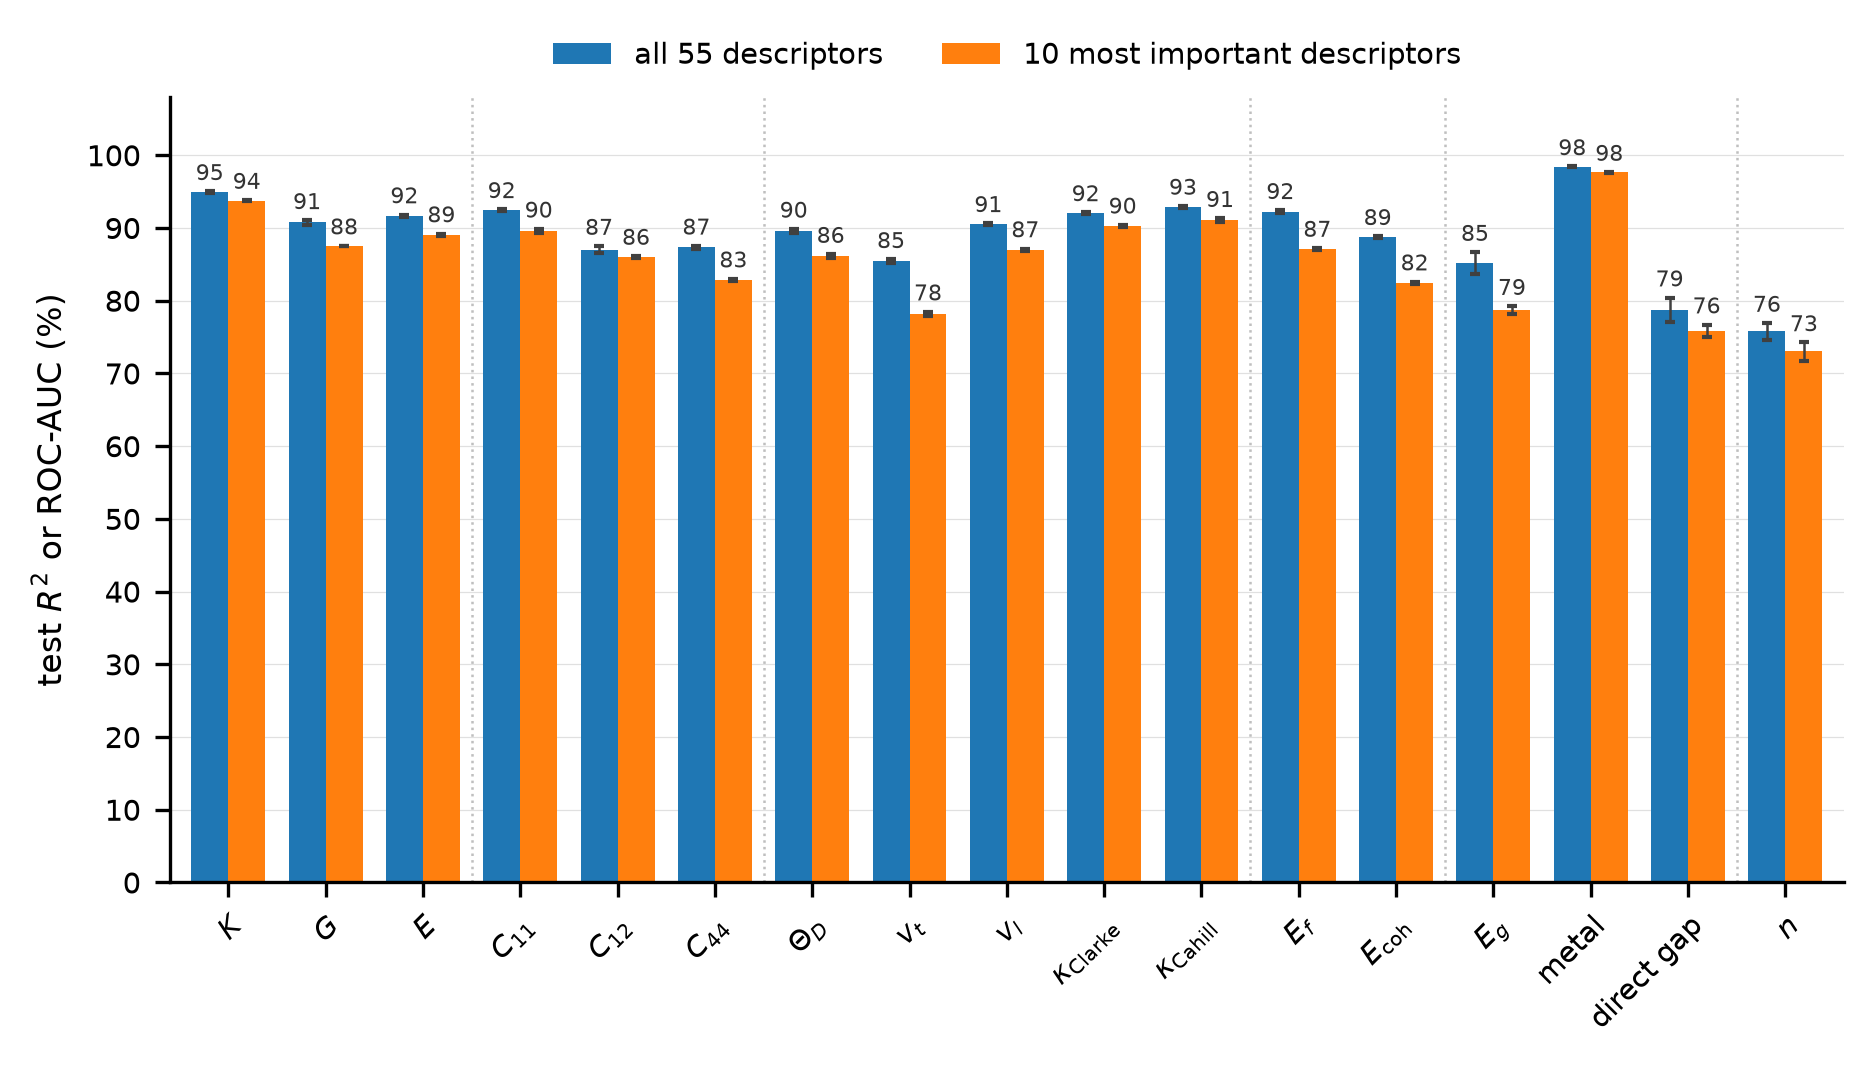
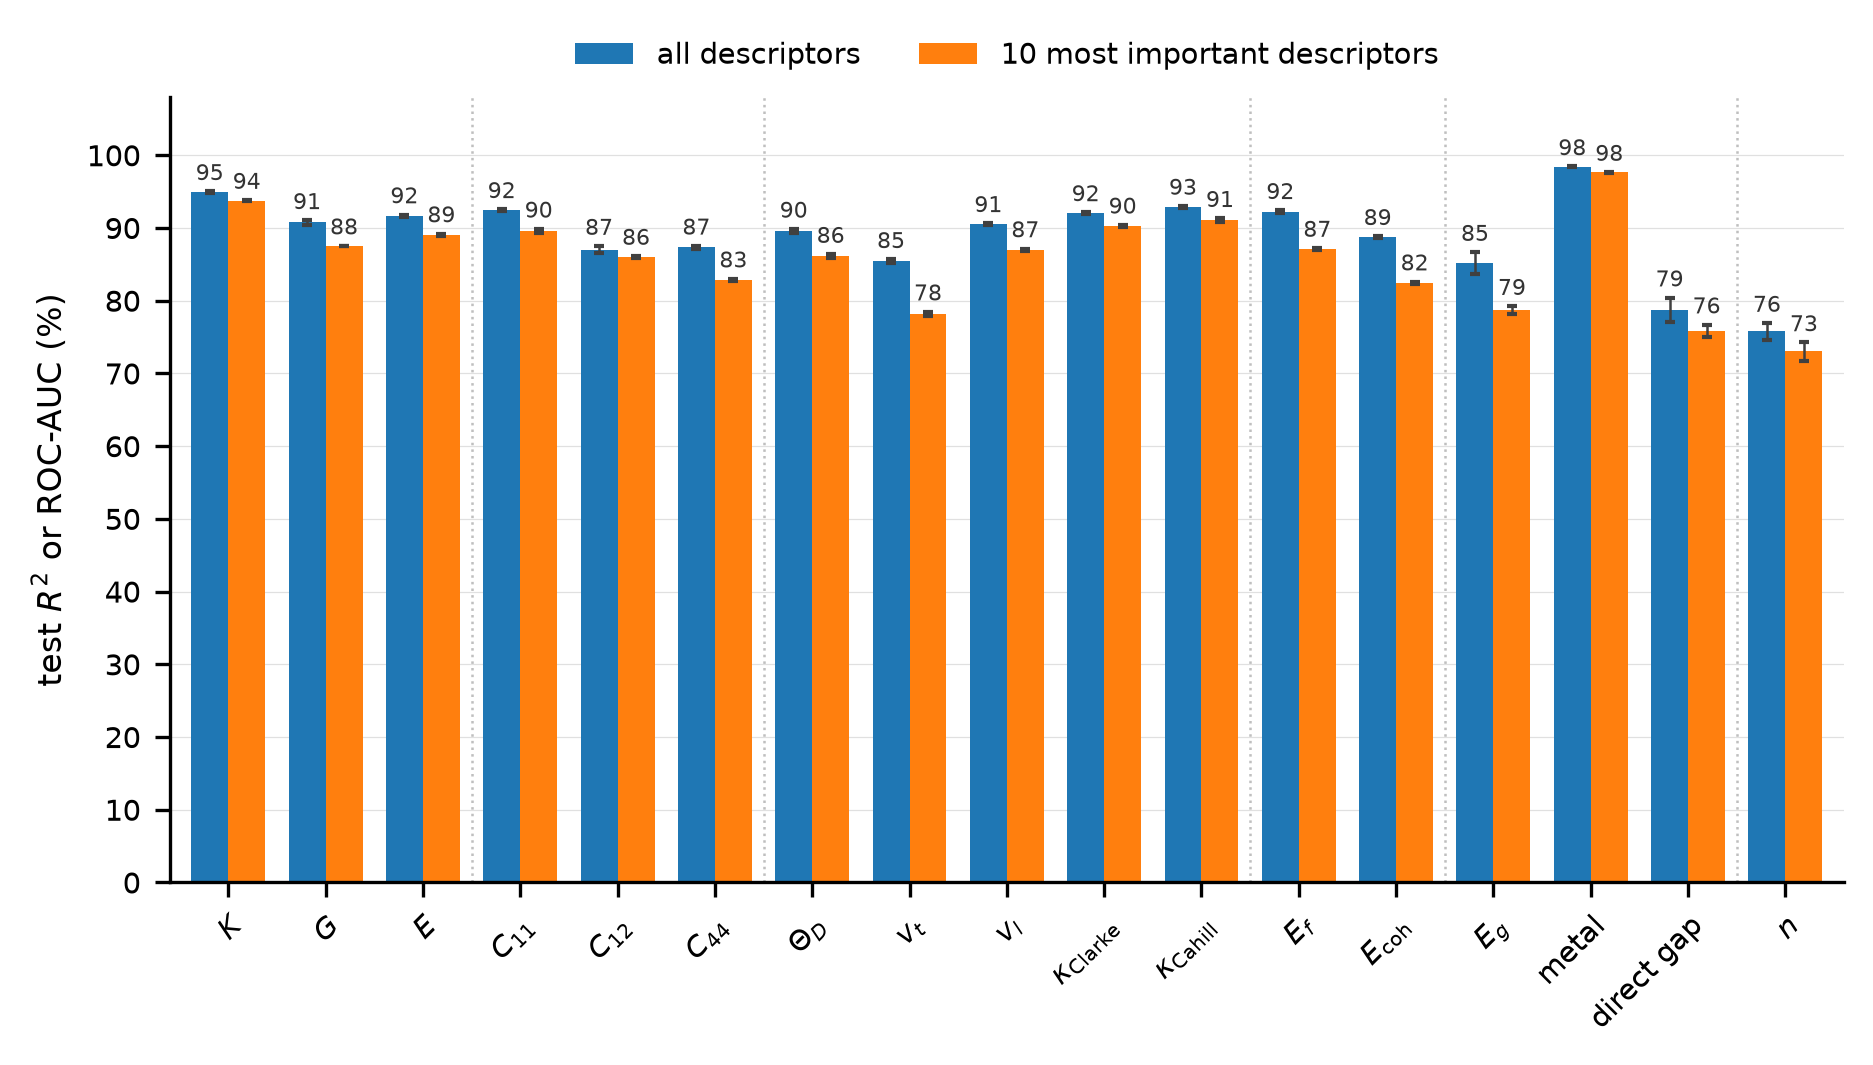
Trim repeated counts (56, 55, 605, 44, 17, 352): kept where introduced, in abstract/conclusions and in result ratios

Changed region(s): [[0.2787, 0.031, 0.7742, 0.062]]

diff --git a/main.tex b/main.tex
@@ -160,7 +160,7 @@ around O, the Mg atoms and the density on one face of the cell. Inside pydemi
 fields (gradient, Laplacian, Hartree potential $V_\mathrm{H}$) and the atomic
 cells of the geometry pass are computed once per structure and cached on it,
 and the registered descriptors reduce them. The radial
-bars give the percentile of each of the 56 descriptors of MgO within the
+bars give the percentile of each descriptor of MgO within the
 dataset, grouped by domain. The descriptors are used from Python, the command
 line or the graphical interface (right, top: a screenshot, Fig.~\ref{fig:gui}),
 and the property models of Section~\ref{sec:properties} take them as input
@@ -269,7 +269,7 @@ number of atoms or the total charge first. Whether the registered quantity is
 then really intensive is checked by the supercell test.
 
 % ==========================================================================
-\section{The 56 descriptors}
+\section{The descriptors}
 \label{sec:descriptors}
 
 Table~\ref{tab:families} defines each descriptor in one line; the full
@@ -478,7 +478,7 @@ self-consistency loop stopped at its iteration limit before reaching the energy
 criterion; these densities are kept. Details are given in Section~S7 of the
 Supporting Information.
 
-pydemi computed all 56 descriptors of every structure without a single failure.
+pydemi computed all descriptors of every structure without a single failure.
 On one core of an Intel Xeon Gold 6338N processor, a typical structure takes
 3.3\,s (median), and 95\% of the structures take less than 15\,s. The whole
 dataset took 8.4 CPU-hours, that is, the computing times of all structures on a
@@ -511,7 +511,7 @@ Technical details are given in Section~S2 of the Supporting Information.
 \begin{figure}[htbp]
 \centering
 \includegraphics[width=\textwidth]{figures/fig_ml.pdf}
-\caption{Descriptors from predicted densities: all 56 descriptors of the 605 test
+\caption{Descriptors from predicted densities: the descriptors of the test
 structures of the density model, computed from the DFT and from the ChargE3Net
 density, grouped by domain. (a) Spearman rank correlation $\rho_s$ between the two
 sets of values (axis from 0.8 to 1; the three descriptors below 0.8 are marked
@@ -524,17 +524,17 @@ descriptor are given in Figs.~S2 and S3 of the Supporting Information.}
 \label{fig:ml}
 \end{figure}
 
-The predicted densities are close to the DFT ones: over the 605 test
+The predicted densities are close to the DFT ones: over the test
 structures, the typical difference is about 0.6\% of the density (median),
 somewhat larger for crystals with lanthanides or actinides. The question for
 pydemi is whether such small differences change the descriptors. A descriptor
 helps a property model when it puts materials in the right order, so we
 measured, for each descriptor, whether its values from the DFT and from the
-predicted densities rank the 605 test materials in the same order (Spearman
+predicted densities rank the test materials in the same order (Spearman
 rank correlation $\rho_s$, which is 1 for the same order). For 44 of the 55
 descriptors that vary between materials, $\rho_s$ is at least 0.95, and for 37
 of them at least 0.99 (Fig.~\ref{fig:ml}a); the typical value of a descriptor
-changes by less than 1\%. These 44 include all 18 heterogeneity descriptors, 16
+changes by less than 1\%. They include all 18 heterogeneity descriptors, 16
 of the 18 bonding descriptors, and the percolation levels, the density floor
 and the information measures. The other 11 fall into three groups, each with a
 clear reason. The counts of maxima and minima of the density change because the
@@ -550,11 +550,11 @@ predicted accurately, but many materials share almost the same value (every
 cubic crystal, for instance, is isotropic), so tiny differences reorder them;
 because several of these values are close to zero, their relative error in
 Fig.~\ref{fig:ml}b looks large although the absolute difference is small. When
-the density is predicted, the 44 transferable descriptors can therefore be used
+the density is predicted, the transferable descriptors can therefore be used
 as they are, and the other 11 with care. The Compare view of the graphical
 interface (Section~\ref{sec:software}) shows, for a given \texttt{CHGCAR}, the
 descriptors of the DFT and of the predicted density side by side, together with
-the transfer of each descriptor. Only five of the 605 test structures have a
+the transfer of each descriptor. Only five of the test structures have a
 typical descriptor error above 5\% (Supporting Information, Fig.~S4). Like the
 DFT path, which uses the total density of a \texttt{CHGCAR}, the model predicts
 the total density only, so neither path provides magnetic descriptors.
@@ -578,7 +578,7 @@ index~\cite{petousis2017}. The structures were split once at random into 4,847
 for training, 606 for validation and 606 for testing; a material without a
 value for a property is left out for that property only.
 
-For each property we trained three kinds of models on the 55 descriptors that
+For each property we trained three kinds of models on the descriptors that
 vary between materials: a linear model, a random forest~\cite{pedregosa2011}
 and gradient-boosted trees (LightGBM~\cite{ke2017}). The settings of LightGBM
 were tuned automatically on the validation set~\cite{akiba2019}, and the test
@@ -599,13 +599,13 @@ given in Table~\ref{tab:properties} and Fig.~\ref{fig:properties}.
 \caption{Test scores of tuned LightGBM models on the pydemi descriptors: $R^2$,
 or ROC-AUC for the two classifications, mean over five seeds (the seed-to-seed
 standard deviations are shown in Fig.~\ref{fig:properties}), with all 55 informative descriptors and with the ten most important
-descriptors of each property. MAE: mean absolute error with the 55
+descriptors of each property. MAE: mean absolute error with all
 descriptors. $n$: training and test materials.}
 \label{tab:properties}
 \begin{adjustbox}{width=\textwidth}
 \begin{tabular}{llrrccr}
 \toprule
-Property & Units & $n_\mathrm{train}$ & $n_\mathrm{test}$ & 55 descriptors & 10 descriptors & MAE \\
+Property & Units & $n_\mathrm{train}$ & $n_\mathrm{test}$ & all descriptors & 10 descriptors & MAE \\
 \midrule
 \csname @@input\endcsname tables/tab_properties.tex
 \bottomrule
@@ -616,7 +616,7 @@ Property & Units & $n_\mathrm{train}$ & $n_\mathrm{test}$ & 55 descriptors & 10 
 \begin{figure}[htbp]
 \centering
 \includegraphics[width=\textwidth]{figures/fig_properties.pdf}
-\caption{Test scores of LightGBM with all 55 descriptors and with the ten most
+\caption{Test scores of LightGBM with all descriptors and with the ten most
 important descriptors of each property: $R^2$, or ROC-AUC for metallicity and the
 direct gap, in per cent; mean over five seeds, error bars one standard
 deviation.}
@@ -629,7 +629,7 @@ which predicted five properties from a compressed representation of the full
 density grid, alone or together with compositional features, and compared the
 results with the graph neural networks CGCNN~\cite{xie2018} and
 MEGNet~\cite{chen2019}. That study used its own data splits, so the comparison
-is indicative. For the bulk, shear and Young's moduli, LightGBM on the 55
+is indicative. For the bulk, shear and Young's moduli, LightGBM on the
 pydemi descriptors alone reaches $R^2$ of 0.949, 0.908 and 0.917. The best
 model of the earlier study, which also used the composition, reached 0.94, 0.87
 and 0.88, the density representation alone 0.90, 0.80 and 0.79, CGCNN 0.93,
@@ -656,7 +656,7 @@ Fig.~\ref{fig:top10}, and listed in Supporting Information, Table~S4) carry 46--
 these ten alone lose 0.01--0.07 in $R^2$ (Table~\ref{tab:properties}, Fig.~\ref{fig:properties}), least for the bulk modulus (0.937 against 0.949),
 $C_{12}$ and metallicity, most for the transverse sound velocity (0.782 against
 0.854), the band gap and the cohesive energy. Only 34 of the 55 descriptors
-appear in any of the 17 lists: the most important
+appear in any of the lists: the most important
 descriptor of every property is one of 6, the three most important are among
 16 and the five most important among 23; the mean interstitial density (in 16 lists), the
 radial spread $\sigma_r^2$ (14) and the negative-Laplacian volume fraction (13)
@@ -669,7 +669,7 @@ Several descriptors are closely related, by construction or in these materials:
 the standard deviation, range and between-element variance of the same site
 quantity, the eigenvalues of the anisotropy tensor ($t_1+t_2+t_3=1$) and its
 fractional anisotropy, $m_1$ and $m_2=m_1^2+\sigma_r^2$, or the Shannon entropy
-and the disequilibrium of the density. On the training set, 18 of the 55
+and the disequilibrium of the density. On the training set, 18
 descriptors have $|\rho_s|\geq0.90$ with another one, in 11 groups
 (Supporting Information, Table~S5). The models split the importance between the
 members of a group: the 18 carry 10--24\% of the mean absolute SHAP value of a
@@ -682,7 +682,7 @@ the bulk modulus); only the band gap loses, $R^2=0.832$ against 0.852
 Table~S6). For these properties, 37 of the 55 descriptors thus carry the information
 the models use, and the rank of a single descriptor in
 Fig.~\ref{fig:top10} depends on which member of its group the model happened
-to use. pydemi computes all 56 descriptors: most of these correlations are
+to use. pydemi still computes all of them: most of these correlations are
 observed in this dataset rather than fixed by definition, and need not hold for
 other materials or properties.
 
@@ -690,7 +690,7 @@ other materials or properties.
 \centering
 \includegraphics[width=\textwidth]{figures/fig_top10.pdf}
 \caption{The ten most important descriptors of each property, ranked by their
-mean absolute SHAP value in the 55-descriptor LightGBM model on the training
+mean absolute SHAP value in the LightGBM model with all descriptors on the training
 set. A dot marks a descriptor that is among the ten of a property; its area is
 the descriptor's share of the mean absolute SHAP value and its colour the
 domain. Only the 34 descriptors that are among the ten for at least one property
@@ -702,15 +702,15 @@ are shown, ordered by the number of properties for which they are among the ten.
 \begin{figure}[htbp]
 \centering
 \includegraphics[width=\textwidth]{figures/fig_ml_properties.pdf}
-\caption{Properties of the 605 test structures of the density model predicted by
-the LightGBM models (55 descriptors, seed 0) from the descriptors of the DFT
+\caption{Properties of the test structures of the density model predicted by
+the LightGBM models (all descriptors, seed 0) from the descriptors of the DFT
 density ($x$) and of the ChargE3Net density ($y$); blue: the 63 structures that
 are also in the test set of the property models. $R^2$: agreement of the two
 predictions; for metallicity and the direct gap, predicted probabilities and the
 share of structures assigned to the same class.}
 \label{fig:mlprops}
 \end{figure}
-For the 605 test structures of the density model we evaluated the property
+For the test structures of the density model we evaluated the property
 models (LightGBM, seed 0) with the descriptors of the predicted densities in
 place of the DFT ones. The two predictions agree (Fig.~\ref{fig:mlprops}): $R^2$ between them is 0.985
 for the bulk modulus, 0.950 and 0.955 for the shear and Young's moduli,
@@ -754,7 +754,7 @@ the browser; it listens on the local machine only, so the files never leave it
 opens a \texttt{CHGCAR} or, for the density model, a CIF or POSCAR file, whose
 prediction runs in the background with progress and cancellation; a summary of
 the structure and grid and the partition setting sit below it. Four views show
-the structure with density slices through any lattice plane; the 56
+the structure with density slices through any lattice plane; the
 descriptors in a searchable table, each with its formula and a figure of the
 quantity it reduces, built so that the plotted data reproduce the value (this
 is tested); one such figure per descriptor, stepping through the domains; and
@@ -763,7 +763,7 @@ each model, the most important inputs and, where the structure belongs to the
 dataset, its DFT values. Models with a test $R^2$ below 0.5 are marked as weak,
 and their values are presented as rough indications. A fifth view compares the two routes for one
 material: for an open \texttt{CHGCAR} it predicts the density of the same structure
-on the same grid and sets the density error, the 56 descriptors and the
+on the same grid and sets the density error, the descriptors and the
 predicted properties from both densities side by side, marking descriptors that
 differ by more than 5\% and properties that differ by more than the typical
 error of their model. Results are exported as CSV or JSON with the run
@@ -773,7 +773,7 @@ metadata.
 \centering
 \includegraphics[width=\textwidth]{figures/fig_gui.pdf}
 \caption{The graphical interface with the DFT \texttt{CHGCAR} of MgO (a
-test-set structure), descriptor view: the 56 descriptors with the interstitial
+test-set structure), descriptor view: the descriptors with the interstitial
 charge fraction selected, its radial charge distribution with the shell
 boundaries and its formula.}
 \label{fig:gui}
@@ -787,9 +787,9 @@ pydemi reduces the one file every VASP calculation writes, the
 chosen so that each is defined on the PAW pseudo-density and converged on
 typical grids: on a coarsened grid 46 of the 55 informative descriptors change
 by at most 1\%. It featurized every density of the dataset without a failure,
-at a median of 3.3\,s per structure on one CPU core, and is verified by 352 tests. The included ChargE3Net model gives
+at a median of 3.3\,s per structure on one CPU core, and is verified by automated tests. The included ChargE3Net model gives
 the same descriptors from a crystal structure: 44 of the 55 keep a rank
-correlation of at least 0.95 with their DFT values on 605 held-out structures,
+correlation of at least 0.95 with their DFT values on held-out structures,
 and only the critical-point counts, quantities built on second derivatives in
 low-density regions and descriptors with clustered values do not.
 
@@ -798,14 +798,14 @@ properties of the dataset, and for the elastic moduli they match or exceed
 the graph neural networks and density-based models reported earlier for the
 same structures. The information is concentrated in a few simple, converged
 descriptors, led by the interstitial density and the NCI volume:
-ten descriptors per property retain 92--99\% of the test $R^2$ of all 55, and most of them transfer to ML-predicted densities. Because the property predictions from ML-predicted densities
+ten descriptors per property retain 92--99\% of the test $R^2$ of all descriptors, and most of them transfer to ML-predicted densities. Because the property predictions from ML-predicted densities
 are nearly as accurate as those from DFT densities, a structure suffices to
 obtain both the descriptors and the properties, in seconds to minutes instead
 of a DFT calculation. Models that predict the magnetization would extend this
 path to magnetic descriptors.
 
 \section*{Code and data availability}
-The source code, the 352 tests, the descriptor reference and the scripts that
+The source code, the tests, the descriptor reference and the scripts that
 train the property models are available at
 \url{https://github.com/CMSLabIITK/pydemi} under the MIT licence; the version described here, 0.2.1, is archived at
 Zenodo~\cite{pydemi} (\doi{10.5281/zenodo.23736932}). The fine-tuned
@@ -815,7 +815,7 @@ DFT dataset of charge densities was generated by members of the CMS Lab,
 Department of Materials Science \& Engineering, IIT Kanpur, including the
 authors, and was introduced in Ref.~\cite{kumar2026}; the data released with
 that work are available at \url{https://github.com/CMSLabIITK/LatentMatFusion}.
-The descriptors of all structures and of the 605 predicted test
+The descriptors of all structures and of the predicted test
 densities, the property targets and the model predictions are available from
 the corresponding author upon reasonable request, as are the DFT calculations
 themselves (about 180\,GB).
